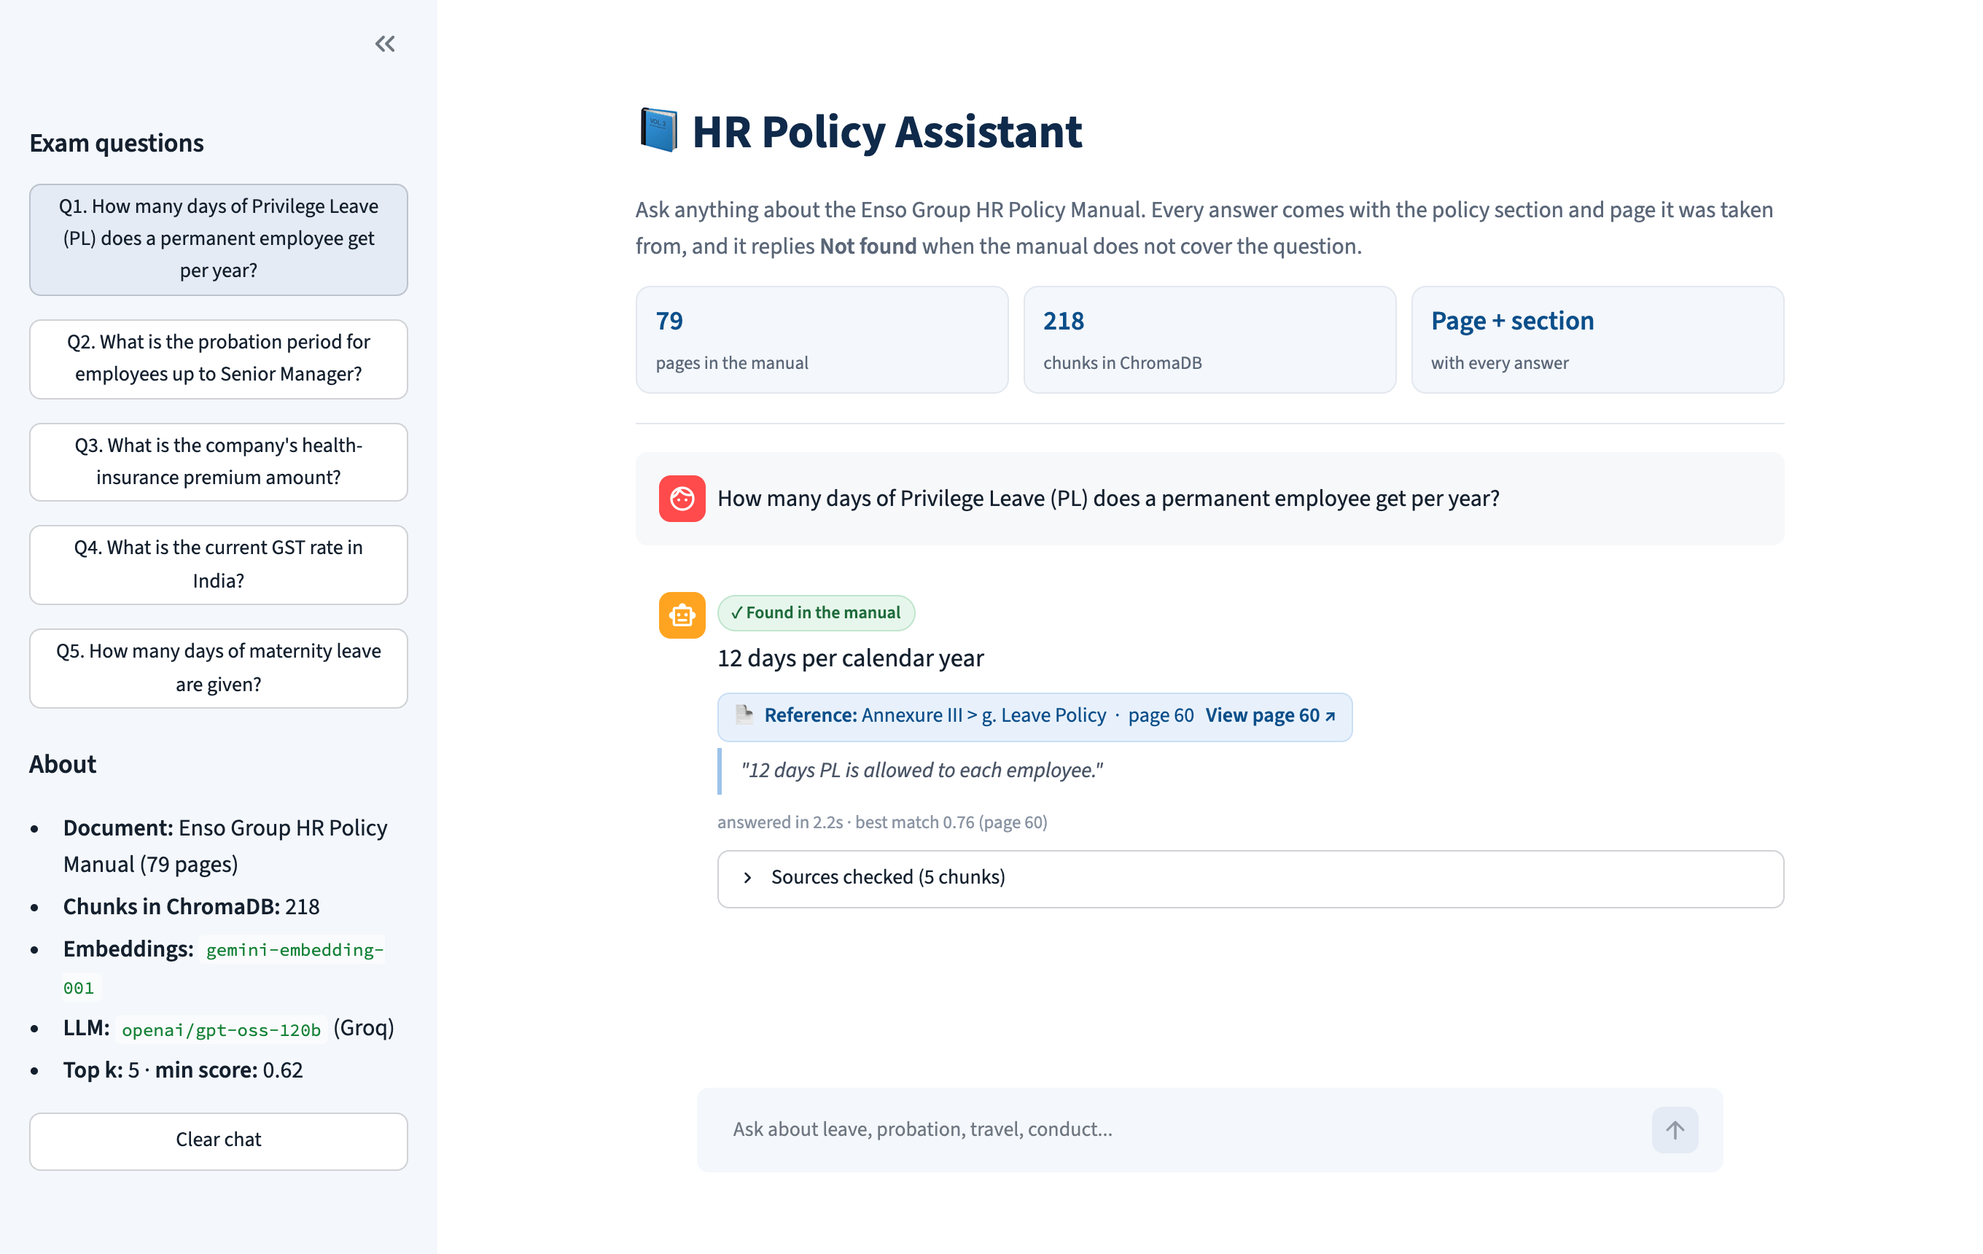
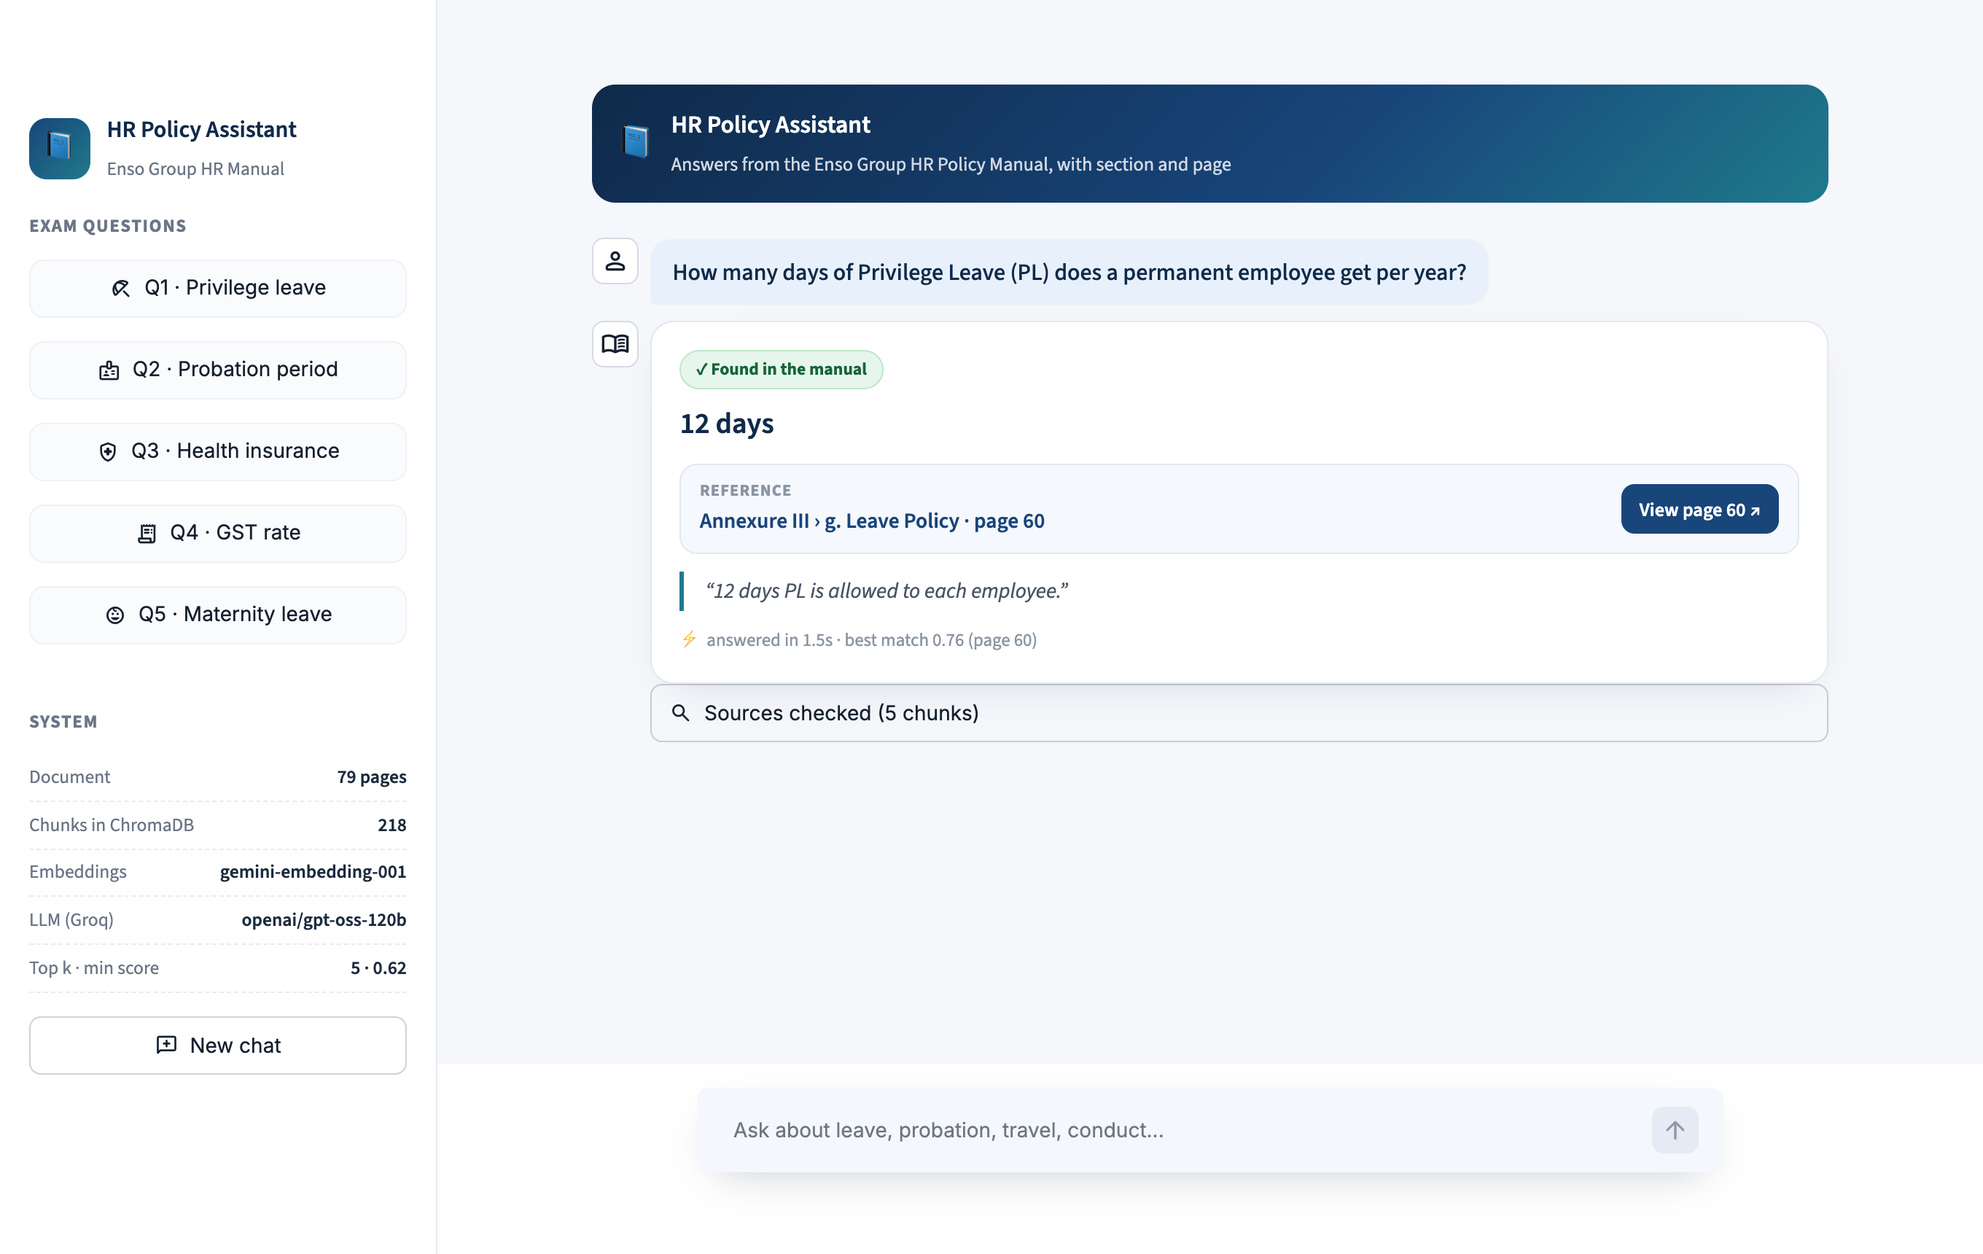
redesign ui with welcome screen, answer cards and new sidebar

diff --git a/app.py b/app.py
@@ -8,74 +8,161 @@ from rag import ask, chat_model, db, embed_model, min_score, top_k
 
 st.set_page_config(page_title="HR Policy Assistant", page_icon="📘", layout="centered")
 
+topics = [
+    (":material/beach_access:", "Privilege leave"),
+    (":material/badge:", "Probation period"),
+    (":material/health_and_safety:", "Health insurance"),
+    (":material/receipt_long:", "GST rate"),
+    (":material/child_care:", "Maternity leave"),
+]
+
 st.markdown("""
 <style>
-.block-container { padding-top: 2.2rem; max-width: 820px; }
-.hero { border-bottom: 1px solid #e3e8ef; padding-bottom: 1rem; margin-bottom: 1.2rem; }
-.hero h1 { font-size: 2rem; margin: 0; color: #0f2a4a; }
-.hero p { color: #5b6778; margin: .35rem 0 0; font-size: .98rem; }
-.answer { font-size: 1.08rem; line-height: 1.55; color: #14202e; }
-.ref { display: inline-block; background: #e8f1fb; color: #0b4f8a; border: 1px solid #c9def5;
-       border-radius: 8px; padding: .3rem .65rem; margin: .55rem 0 .3rem; font-size: .88rem; }
-.quote { border-left: 3px solid #9cc3ea; padding: .25rem .8rem; color: #4a5566;
-         font-style: italic; font-size: .92rem; margin-bottom: .4rem; }
-.not-found { display: inline-block; background: #fdeeee; color: #a12a2a; border: 1px solid #f3caca;
-             border-radius: 8px; padding: .35rem .8rem; font-weight: 600; font-size: 1.05rem; }
-.why { color: #7a8594; font-size: .85rem; margin-top: .45rem; }
-.ref a { color: #0b4f8a; font-weight: 600; text-decoration: none; margin-left: .5rem; white-space: nowrap; }
-.ref a:hover { text-decoration: underline; }
-.meta { color: #8a94a3; font-size: .78rem; margin: .2rem 0 .5rem; }
+@import url('https://fonts.googleapis.com/css2?family=Inter:wght@400;500;600;700;800&display=swap');
+
+.stApp, .stApp p, .stApp li, .stApp h1, .stApp h2, .stApp h3, .stApp label,
+.stApp button p, .stApp input, .stApp textarea { font-family: 'Inter', system-ui, -apple-system, sans-serif !important; }
+
+.stApp { background: #f5f7fb; }
+header[data-testid="stHeader"] { background: transparent; }
+.block-container { padding-top: 2.6rem; padding-bottom: 7rem; max-width: 880px; }
+
+@keyframes rise { from { opacity: 0; transform: translateY(8px); } to { opacity: 1; transform: none; } }
+
+/* welcome banner */
+.hero { position: relative; overflow: hidden; border-radius: 22px; padding: 2rem 2rem 1.6rem; color: #fff;
+        background: linear-gradient(135deg, #0f2a4a 0%, #18457a 55%, #1f7a8c 100%);
+        box-shadow: 0 18px 40px -18px rgba(15, 42, 74, .55); animation: rise .5s ease both; }
+.hero::after { content: ""; position: absolute; right: -80px; top: -80px; width: 260px; height: 260px;
+               border-radius: 50%; background: radial-gradient(circle, rgba(255,255,255,.16), transparent 70%); }
+.hero .badge { display: inline-block; font-size: .74rem; font-weight: 600; letter-spacing: .04em; text-transform: uppercase;
+               background: rgba(255,255,255,.14); border: 1px solid rgba(255,255,255,.22); border-radius: 999px; padding: .25rem .7rem; }
+.hero h1 { color: #fff !important; font-size: 2.05rem !important; font-weight: 800 !important; line-height: 1.2; margin: .9rem 0 .5rem; padding: 0; }
+.hero p { color: rgba(255,255,255,.86) !important; font-size: 1rem; line-height: 1.6; max-width: 640px; margin: 0; }
+.hero p b { color: #fff; }
+.hero-stats { display: flex; gap: .7rem; flex-wrap: wrap; margin-top: 1.4rem; }
+.hero-stats div { flex: 1 1 140px; background: rgba(255,255,255,.1); border: 1px solid rgba(255,255,255,.18);
+                  border-radius: 14px; padding: .7rem .9rem; backdrop-filter: blur(6px); }
+.hero-stats b { display: block; font-size: 1.35rem; font-weight: 700; color: #fff; }
+.hero-stats span { font-size: .8rem; color: rgba(255,255,255,.78); }
+
+.label { font-size: .78rem; font-weight: 700; letter-spacing: .06em; text-transform: uppercase; color: #6b7686; margin: 1.8rem 0 .7rem; }
+
+/* question cards on the welcome screen */
+[class*="st-key-try"] button { min-height: 76px; justify-content: flex-start; text-align: left; background: #fff;
+    border: 1px solid #e3e8f0; border-radius: 14px; padding: .8rem 1rem; box-shadow: 0 1px 2px rgba(16,24,40,.04);
+    transition: all .18s ease; }
+[class*="st-key-try"] button:hover { border-color: #8fb3e3; box-shadow: 0 8px 20px -10px rgba(24,69,122,.35); transform: translateY(-2px); }
+[class*="st-key-try"] button p { font-size: .93rem; color: #1b2a3d; line-height: 1.4; white-space: normal !important;
+    overflow: visible !important; text-overflow: clip !important; text-align: left; }
+[class*="st-key-try"] button > div { justify-content: flex-start; width: 100%; }
+[class*="st-key-try"] button span[data-testid="stIconMaterial"] { color: #1f7a8c; }
+
+/* how it works */
+.steps { display: grid; grid-template-columns: repeat(3, 1fr); gap: .8rem; }
+.step { background: #fff; border: 1px solid #e3e8f0; border-radius: 14px; padding: 1rem; }
+.step .num { display: inline-flex; width: 28px; height: 28px; border-radius: 8px; align-items: center; justify-content: center;
+             background: #e8f1fb; color: #18457a; font-weight: 700; font-size: .85rem; }
+.step b { display: block; margin: .55rem 0 .2rem; color: #0f2a4a; }
+.step span { font-size: .85rem; color: #5b6778; line-height: 1.5; }
+
+/* slim header once the chat starts */
+.topbar { display: flex; align-items: center; gap: .8rem; padding: .9rem 1.1rem; border-radius: 16px; color: #fff;
+          background: linear-gradient(135deg, #0f2a4a 0%, #18457a 60%, #1f7a8c 100%); margin-bottom: 1.2rem; }
+.topbar .logo { font-size: 1.5rem; }
+.topbar b { display: block; font-size: 1.05rem; }
+.topbar span { font-size: .82rem; color: rgba(255,255,255,.8); }
+
+/* chat */
+[data-testid="stChatMessage"] { background: transparent !important; padding: .3rem 0; }
+.q-bubble { display: inline-block; background: #e8f1fb; color: #0f2a4a; border-radius: 14px 14px 14px 4px;
+            padding: .65rem .95rem; font-weight: 500; line-height: 1.5; }
+.card { background: #fff; border: 1px solid #e3e8f0; border-radius: 16px; padding: 1.1rem 1.2rem;
+        box-shadow: 0 10px 30px -18px rgba(16,24,40,.25); animation: rise .35s ease both; }
+.pill { display: inline-flex; align-items: center; gap: .3rem; font-size: .74rem; font-weight: 700; border-radius: 999px; padding: .2rem .65rem; }
+.pill.ok { color: #16653a; background: #e6f6ec; border: 1px solid #bfe5cc; }
+.pill.no { color: #a12a2a; background: #fdeeee; border: 1px solid #f3caca; }
+.answer { font-size: 1.25rem; font-weight: 600; color: #0f2a4a; line-height: 1.45; margin: .55rem 0 .8rem; overflow-wrap: anywhere; }
+.not-found { font-size: 1.25rem; font-weight: 700; color: #a12a2a; margin: .55rem 0 .3rem; }
+.why { color: #6b7686; font-size: .9rem; }
+.hint { color: #8a94a3; font-size: .82rem; margin-top: .5rem; }
+.ref { display: flex; align-items: center; justify-content: space-between; gap: .8rem; flex-wrap: wrap;
+       background: #f5f8fc; border: 1px solid #e3e8f0; border-radius: 12px; padding: .6rem .8rem; margin-top: .5rem; }
+.ref small { display: block; font-size: .7rem; font-weight: 700; letter-spacing: .05em; text-transform: uppercase; color: #8a94a3; }
+.ref .section { font-size: .92rem; font-weight: 600; color: #18457a; overflow-wrap: anywhere; }
+.ref a { flex-shrink: 0; background: #18457a; color: #fff !important; text-decoration: none; font-size: .82rem; font-weight: 600;
+         border-radius: 9px; padding: .4rem .75rem; transition: background .15s ease; }
+.ref a:hover { background: #1f7a8c; }
+.quote { border-left: 3px solid #1f7a8c; margin: .7rem 0 .2rem; padding: .15rem .9rem; color: #4a5566;
+         font-size: .92rem; line-height: 1.55; font-style: italic; overflow-wrap: anywhere; }
+.meta { color: #8a94a3; font-size: .78rem; margin-top: .7rem; }
 .source-head { font-size: .85rem; color: #0f2a4a; margin-top: .6rem; }
 .source-text { font-size: .8rem; color: #5b6778; white-space: pre-wrap; }
-.stats { display: flex; gap: .6rem; flex-wrap: wrap; margin: .9rem 0 .2rem; }
-.stat { flex: 1 1 120px; background: #f4f7fb; border: 1px solid #e3e8ef; border-radius: 10px; padding: .55rem .8rem; }
-.stat b { display: block; font-size: 1.15rem; color: #0b4f8a; }
-.stat span { font-size: .78rem; color: #5b6778; }
-.tag-ok { display: inline-block; font-size: .75rem; font-weight: 600; color: #1d6b3a; background: #e7f6ec;
-          border: 1px solid #bfe5cc; border-radius: 999px; padding: .1rem .55rem; margin-bottom: .4rem; }
-.try { color: #5b6778; font-size: .9rem; margin: 1rem 0 .4rem; }
-.ref, .quote, .answer { overflow-wrap: anywhere; }
+
+/* sidebar */
+[data-testid="stSidebar"] { background: #fff; border-right: 1px solid #e6ebf2; }
+.brand { display: flex; align-items: center; gap: .7rem; margin-bottom: 1.2rem; }
+.brand .logo { width: 42px; height: 42px; border-radius: 12px; display: flex; align-items: center; justify-content: center;
+               font-size: 1.3rem; background: linear-gradient(135deg, #18457a, #1f7a8c); }
+.brand b { display: block; color: #0f2a4a; font-size: 1rem; }
+.brand span { font-size: .8rem; color: #6b7686; }
+[class*="st-key-q"] button { justify-content: flex-start; border-radius: 10px; border: 1px solid #eef1f6; background: #fafbfd; }
+[class*="st-key-q"] button:hover { border-color: #8fb3e3; background: #f2f7fd; }
+.sys div { display: flex; justify-content: space-between; gap: .5rem; font-size: .8rem; padding: .35rem 0; border-bottom: 1px dashed #e6ebf2; }
+.sys span { color: #6b7686; }
+.sys b { color: #1b2a3d; font-weight: 600; text-align: right; overflow-wrap: anywhere; }
+
+/* chat input */
+[data-testid="stChatInput"] { border-radius: 16px !important; box-shadow: 0 10px 30px -14px rgba(16,24,40,.3); }
+
 @media (max-width: 640px) {
-  .block-container { padding: 4.2rem .9rem 6rem; }
-  .hero h1 { font-size: 1.45rem; }
-  .hero p { font-size: .9rem; }
-  .answer { font-size: 1rem; }
-  .ref { display: block; font-size: .82rem; }
-  .quote { font-size: .86rem; }
-  .stat { padding: .45rem .6rem; }
-  .stat b { font-size: 1rem; }
+  .block-container { padding: 4rem .9rem 7rem; }
+  .hero { padding: 1.4rem 1.2rem 1.2rem; border-radius: 18px; }
+  .hero h1 { font-size: 1.5rem !important; }
+  .hero p { font-size: .92rem; }
+  .hero-stats div { flex: 1 1 90px; padding: .55rem .7rem; }
+  .hero-stats b { font-size: 1.1rem; }
+  .steps { grid-template-columns: 1fr; }
+  .answer, .not-found { font-size: 1.1rem; }
+  .card { padding: .95rem 1rem; }
+  .ref a { width: 100%; text-align: center; }
 }
 </style>
 """, unsafe_allow_html=True)
 
 
+def pick(question):
+    st.session_state.picked = question
+
+
+def new_chat():
+    st.session_state.history = []
+
+
 def show_answer(result):
     if result["found"]:
-        st.markdown(
-            f'<div class="tag-ok">✓ Found in the manual</div><div class="answer">{escape(result["answer"])}</div>',
-            unsafe_allow_html=True,
-        )
+        html = f'<div class="card"><span class="pill ok">✓ Found in the manual</span><div class="answer">{escape(result["answer"])}</div>'
         for c in result["citations"]:
-            link = f'app/static/hr_manual.pdf#page={c["page"]}'
-            quote = c["quote"].lstrip("-> ")
-            st.markdown(
-                f'<div class="ref">📄 <b>Reference:</b> {escape(c["section"])} &nbsp;·&nbsp; page {c["page"]}'
-                f'<a href="{link}" target="_blank">View page {c["page"]} ↗</a></div>'
-                f'<div class="quote">"{escape(quote)}"</div>',
-                unsafe_allow_html=True,
+            section = escape(c["section"].replace(" > ", " › "))
+            quote = escape(c["quote"].lstrip("-> "))
+            html += (
+                f'<div class="ref"><div><small>Reference</small><div class="section">{section} · page {c["page"]}</div></div>'
+                f'<a href="app/static/hr_manual.pdf#page={c["page"]}" target="_blank">View page {c["page"]} ↗</a></div>'
+                f'<div class="quote">“{quote}”</div>'
             )
     else:
-        st.markdown('<div class="not-found">Not found</div>', unsafe_allow_html=True)
-        st.markdown(f'<div class="why">{escape(result["reason"])}</div>', unsafe_allow_html=True)
+        html = (
+            f'<div class="card"><span class="pill no">✕ Not in the manual</span><div class="not-found">Not found</div>'
+            f'<div class="why">{escape(result["reason"].capitalize())}.</div>'
+            f'<div class="hint">Try rephrasing, or ask about leave, probation, travel or conduct.</div>'
+        )
 
     best = result["sources"][0] if result["sources"] else None
     if best and "seconds" in result:
-        st.markdown(
-            f'<div class="meta">answered in {result["seconds"]}s · best match {best["score"]} (page {best["page"]})</div>',
-            unsafe_allow_html=True,
-        )
+        html += f'<div class="meta">⚡ answered in {result["seconds"]}s · best match {best["score"]} (page {best["page"]})</div>'
+    st.markdown(html + "</div>", unsafe_allow_html=True)
 
-    with st.expander(f"Sources checked ({len(result['sources'])} chunks)"):
+    with st.expander(f"Sources checked ({len(result['sources'])} chunks)", icon=":material/search:"):
         for s in result["sources"]:
             text = s["text"].split("\n", 1)[-1]
             st.markdown(
@@ -85,63 +172,80 @@ def show_answer(result):
             )
 
 
+if "history" not in st.session_state:
+    st.session_state.history = []
+
 with st.sidebar:
-    st.subheader("Exam questions")
-    picked = None
+    st.markdown(
+        '<div class="brand"><div class="logo">📘</div><div><b>HR Policy Assistant</b><span>Enso Group HR Manual</span></div></div>',
+        unsafe_allow_html=True,
+    )
+    st.markdown('<div class="label" style="margin-top:0">Exam questions</div>', unsafe_allow_html=True)
     for i, q in enumerate(exam_questions):
-        if st.button(f"Q{i + 1}. {q}", key=f"q{i}", use_container_width=True):
-            picked = q
+        icon, label = topics[i]
+        st.button(f"Q{i + 1} · {label}", key=f"q{i}", icon=icon, help=q, on_click=pick, args=(q,), width="stretch")
 
-    st.subheader("About")
+    st.markdown('<div class="label">System</div>', unsafe_allow_html=True)
     st.markdown(f"""
-- **Document:** Enso Group HR Policy Manual (79 pages)
-- **Chunks in ChromaDB:** {db._collection.count()}
-- **Embeddings:** `{embed_model}`
-- **LLM:** `{chat_model}` (Groq)
-- **Top k:** {top_k} · **min score:** {min_score}
-""")
+<div class="sys">
+  <div><span>Document</span><b>79 pages</b></div>
+  <div><span>Chunks in ChromaDB</span><b>{db._collection.count()}</b></div>
+  <div><span>Embeddings</span><b>{embed_model}</b></div>
+  <div><span>LLM (Groq)</span><b>{chat_model}</b></div>
+  <div><span>Top k · min score</span><b>{top_k} · {min_score}</b></div>
+</div>
+""", unsafe_allow_html=True)
+    st.write("")
+    st.button("New chat", icon=":material/add_comment:", on_click=new_chat, width="stretch")
 
-    if st.button("Clear chat", use_container_width=True):
-        st.session_state.history = []
+question = st.chat_input("Ask about leave, probation, travel, conduct...") or st.session_state.pop("picked", None)
 
-st.markdown(f"""
+if not st.session_state.history and not question:
+    st.markdown(f"""
 <div class="hero">
-  <h1>📘 HR Policy Assistant</h1>
-  <p>Ask anything about the Enso Group HR Policy Manual. Every answer comes with the policy section and page
-  it was taken from, and it replies <b>Not found</b> when the manual does not cover the question.</p>
-  <div class="stats">
-    <div class="stat"><b>79</b><span>pages in the manual</span></div>
-    <div class="stat"><b>{db._collection.count()}</b><span>chunks in ChromaDB</span></div>
-    <div class="stat"><b>Page + section</b><span>with every answer</span></div>
+  <span class="badge">Enso Group · HR Policy Manual</span>
+  <h1>Hi there 👋 How can I help you today?</h1>
+  <p>Ask anything about leave, probation, travel or conduct. I answer only from the official HR manual and show the
+  exact section and page, or tell you honestly when it is <b>not in the manual</b>.</p>
+  <div class="hero-stats">
+    <div><b>79</b><span>pages read</span></div>
+    <div><b>{db._collection.count()}</b><span>searchable chunks</span></div>
+    <div><b>16/16</b><span>test questions passed</span></div>
   </div>
 </div>
 """, unsafe_allow_html=True)
 
-if "history" not in st.session_state:
-    st.session_state.history = []
+    st.markdown('<div class="label">Try an exam question</div>', unsafe_allow_html=True)
+    cols = st.columns(2)
+    for i, q in enumerate(exam_questions):
+        with cols[i % 2]:
+            st.button(q, key=f"try{i}", icon=topics[i][0], on_click=pick, args=(q,), width="stretch")
 
-# on phones the sidebar is hidden, so show the exam questions here too
-try_box = st.empty()
-if not st.session_state.history and not picked:
-    with try_box.container():
-        st.markdown('<div class="try">Try an exam question:</div>', unsafe_allow_html=True)
-        for i, q in enumerate(exam_questions):
-            if st.button(q, key=f"try{i}", use_container_width=True):
-                picked = q
+    st.markdown("""
+<div class="label">How it works</div>
+<div class="steps">
+  <div class="step"><span class="num">1</span><b>Search</b><span>Finds the 5 most relevant passages of the manual in ChromaDB.</span></div>
+  <div class="step"><span class="num">2</span><b>Verify</b><span>Checks the answer is really written in those passages, nothing from outside.</span></div>
+  <div class="step"><span class="num">3</span><b>Cite</b><span>Shows the policy, page and exact quote, or says Not found.</span></div>
+</div>
+""", unsafe_allow_html=True)
+else:
+    st.markdown(
+        '<div class="topbar"><div class="logo">📘</div><div><b>HR Policy Assistant</b>'
+        '<span>Answers from the Enso Group HR Policy Manual, with section and page</span></div></div>',
+        unsafe_allow_html=True,
+    )
 
 for item in st.session_state.history:
-    with st.chat_message("user"):
-        st.write(item["question"])
-    with st.chat_message("assistant"):
+    with st.chat_message("user", avatar=":material/person:"):
+        st.markdown(f'<div class="q-bubble">{escape(item["question"])}</div>', unsafe_allow_html=True)
+    with st.chat_message("assistant", avatar=":material/menu_book:"):
         show_answer(item)
 
-question = st.chat_input("Ask about leave, probation, travel, conduct...") or picked
-
 if question:
-    try_box.empty()
-    with st.chat_message("user"):
-        st.write(question)
-    with st.chat_message("assistant"):
+    with st.chat_message("user", avatar=":material/person:"):
+        st.markdown(f'<div class="q-bubble">{escape(question)}</div>', unsafe_allow_html=True)
+    with st.chat_message("assistant", avatar=":material/menu_book:"):
         try:
             start = time.time()
             with st.spinner("searching the manual..."):

diff --git a/README.md b/README.md
@@ -5,7 +5,7 @@ Every answer comes with a **reference to the policy section and page** it was ta
 
 Built with **Python + LangChain + ChromaDB**, using Google Gemini for embeddings, GPT-OSS 120B on Groq for answers, and a Streamlit chat UI. Everything runs on free tiers.
 
-![app](screenshots/q1.png)
+![app](screenshots/home.png)
 
 ---
 
